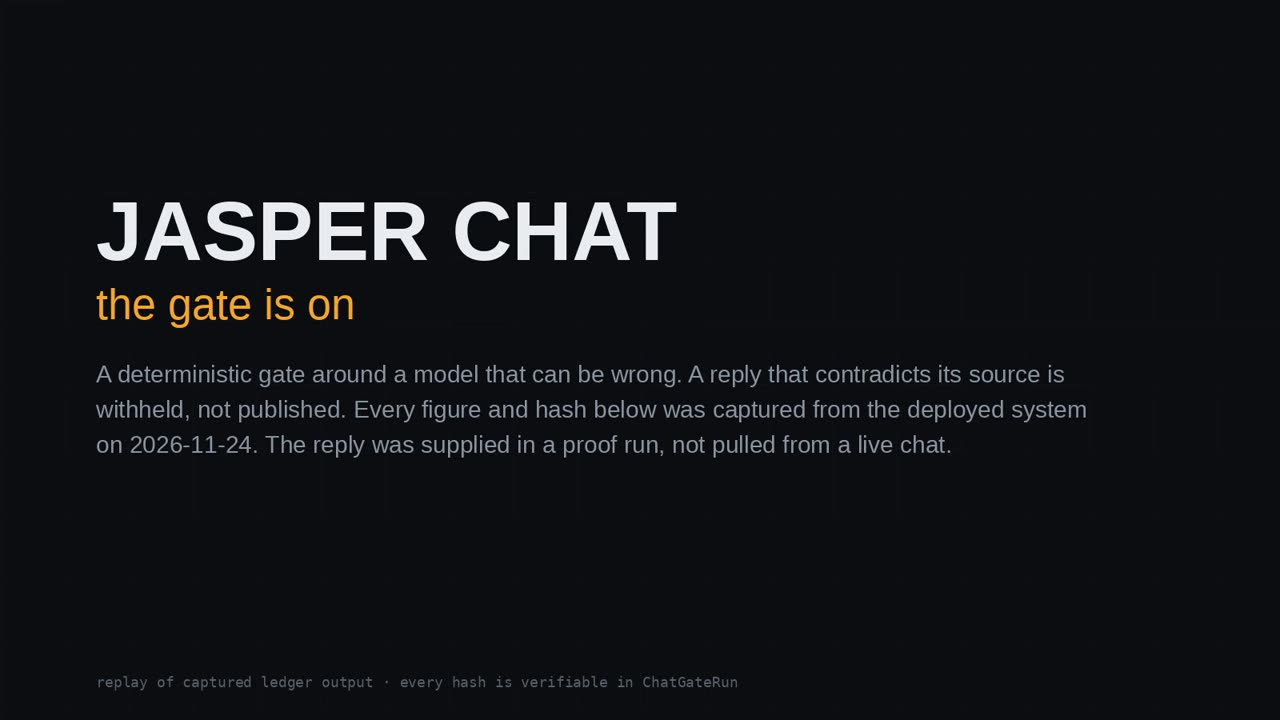
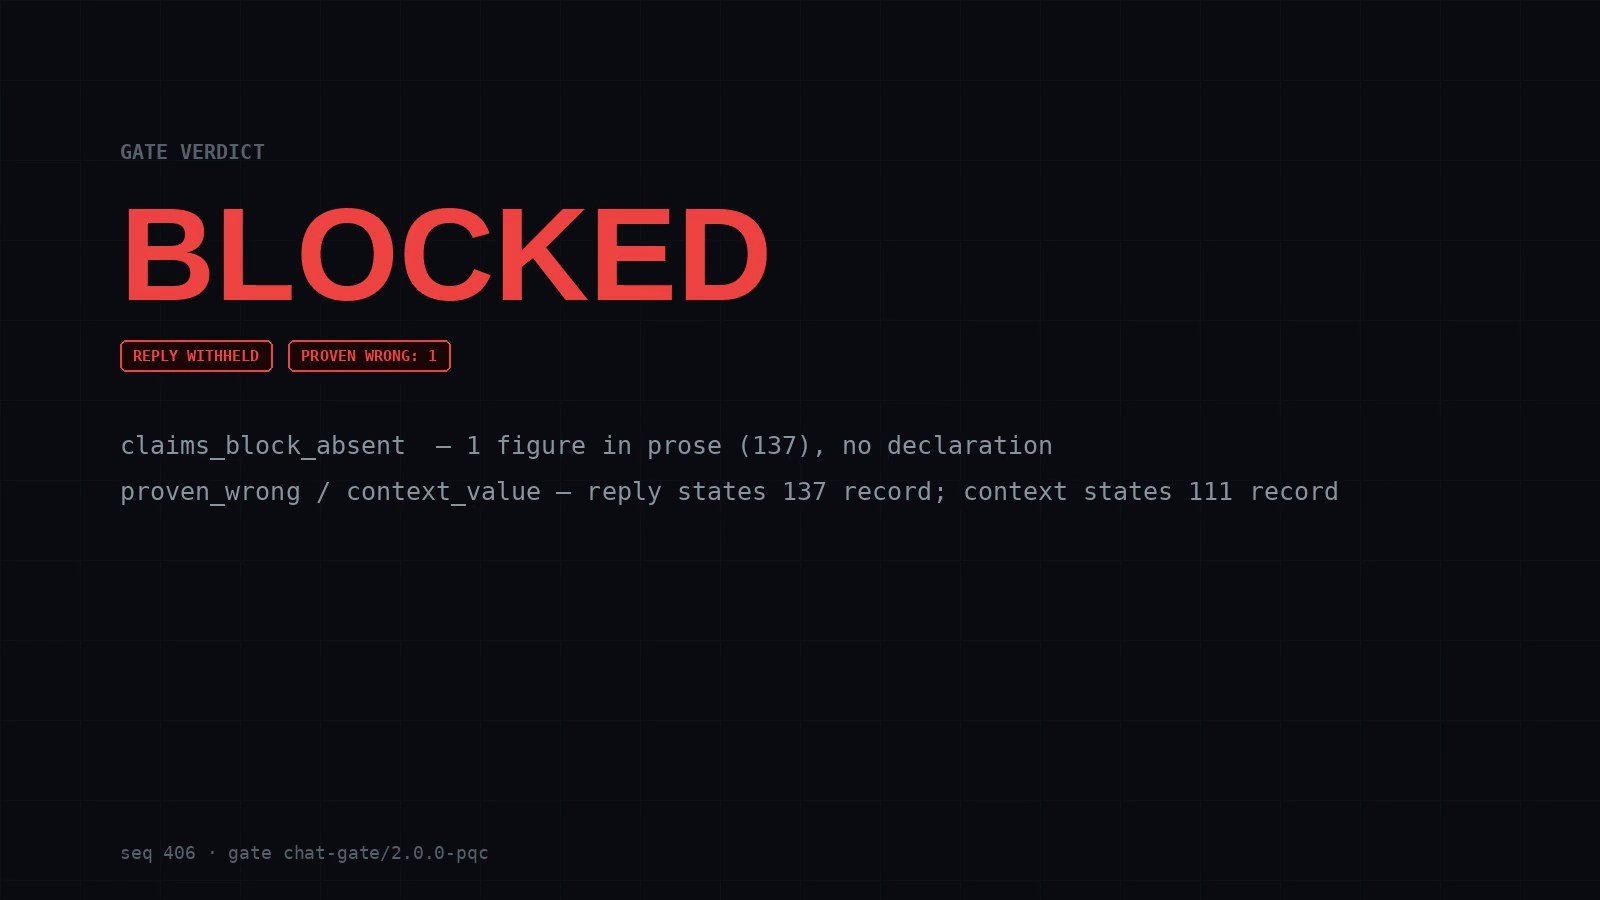
Replace gate-refusal poster and clip: drop the Jasper title card and the 3s Jasper opening from the video

diff --git a/home/index.html b/home/index.html
@@ -162,11 +162,11 @@
 
         <figure class="video">
           <video controls preload="metadata" poster="/assets/posters/gate-refusal.jpg">
-            <source src="https://base44.app/api/apps/69b57683f2623117603736bc/files/mp/public/69b57683f2623117603736bc/fece6240da5bd4b80954d4c58e38756d_GATE_REFUSAL_DEMO_20261124.mp4" type="video/mp4">
-            Your browser cannot play this video. <a href="https://base44.app/api/apps/69b57683f2623117603736bc/files/mp/public/69b57683f2623117603736bc/fece6240da5bd4b80954d4c58e38756d_GATE_REFUSAL_DEMO_20261124.mp4">Download it instead</a>.
+            <source src="https://base44.app/api/apps/69b57683f2623117603736bc/files/mp/public/69b57683f2623117603736bc/51e1b601998907ee704b819c57333cc4_GATE_REFUSAL_CLEAN_20261125.mp4" type="video/mp4">
+            Your browser cannot play this video. <a href="https://base44.app/api/apps/69b57683f2623117603736bc/files/mp/public/69b57683f2623117603736bc/51e1b601998907ee704b819c57333cc4_GATE_REFUSAL_CLEAN_20261125.mp4">Download it instead</a>.
           </video>
           <figcaption>
-            <strong>The gate refuses a wrong answer</strong> · 59 s · the model answers 137 records where the source says 111. The reply is withheld rather than shown, then re-derived from byte-identical input to the same verdict. The chain audit that follows reports four historical forks it did not clean up.
+            <strong>The gate refuses a wrong answer</strong> · 55 s · the model answers 137 records where the source says 111. The reply is withheld rather than shown, then re-derived from byte-identical input to the same verdict. The chain audit that follows reports four historical forks it did not clean up.
           </figcaption>
         </figure>
       </div>
